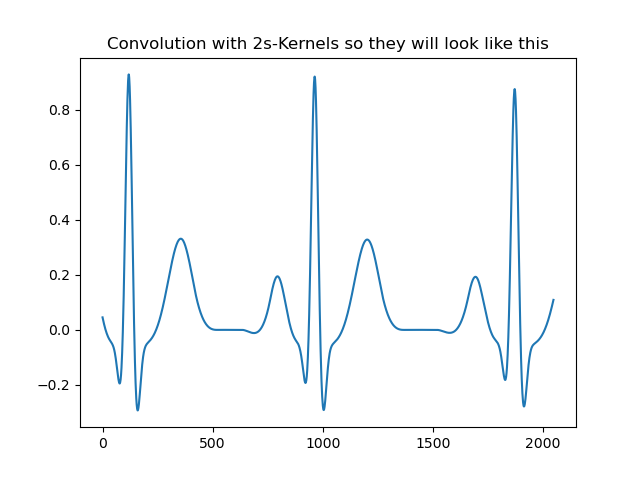
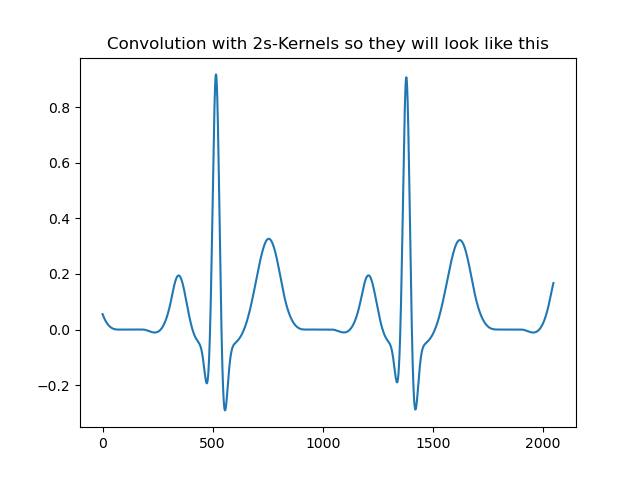
Tachygram super. R-peak klappt nicht

diff --git a/train_proc.py b/train_proc.py
@@ -86,7 +86,7 @@ def train(total_epochs=250,
             mlflow.log_param("Architecture", "Conv-AE-LSTM-P")  # logs type of architecture
             mlflow.log_param("down_samplerate", ds_samplerate)  # samplerate after downsampling
         elif Arch == "maxKomp-Conv-AE-LSTM-P":
-            model, ds_samplerate = tl.setup_maxKomp_Conv_AE_LSTM_P(np.shape(X)[1:], NNsize, np.shape(y)[-1], int(samplerate))  # Conv Encoder. LSTM Decoder
+            model, ds_samplerate = tl.setup_maxKomp_Conv_AE_LSTM_P(np.shape(X)[1:], np.shape(y)[-1], int(samplerate))  # Conv Encoder. LSTM Decoder
             mlflow.log_param("Architecture", "maxKomp-Conv-AE-LSTM-P")  # logs type of architecture
             mlflow.log_param("down_samplerate", ds_samplerate)  # samplerate after downsampling
 
@@ -99,19 +99,21 @@ def train(total_epochs=250,
         # Compile model
         print("Compiling model...")
         model.compile(loss= {
-            # "ECG_output": tl.ECG_loss,
-            # "BBI_output": tl.BBI_loss
-            "RP_output": tl.RP_loss
-            },# Loss-Funktion
+                        "Tachy_output": tl.ECG_loss,
+                        # "ECG_output": tl.ECG_loss,
+                        # "BBI_output": tl.BBI_loss
+                        # "RP_output": tl.RP_loss
+                        },# Loss-Funktion
                     optimizer='Adam',
                     metrics={
-            # "ECG_output": 'MAE',
-            # "BBI_output": 'MAE'
-            "RP_output": 'binary_accuracy'
-            })
+                        "Tachy_output": 'MAE',
+                        # "ECG_output": 'MAE',
+                        # "BBI_output": 'MAE'
+                        # "RP_output": 'binary_accuracy'
+                        })
         
         # Callback
-        escb = EarlyStopping(monitor='binary_accuracy', patience=min(int(total_epochs/2),50), min_delta=0.001, mode="min") # 'ECG_output_MAE'
+        escb = EarlyStopping(monitor='MAE', patience=min(int(total_epochs/2),50), min_delta=0.001, mode="min") # 'Tachy_output_MAE' 'ECG_output_MAE' 'binary_accuracy'
         
         # Train model on training set
         print("Training model...")
@@ -156,7 +158,8 @@ def train(total_epochs=250,
         plt.title("Full plot Truth and Pred of column 0")
         plt.plot(list(range(len(y_test[0][0,:]))), y_test[0][example,:])
         plt.plot(list(range(len(y_pred[0][0,:]))), y_pred[0][example,:])
-        plt.plot(list(range(len(X_test[0,:]))), X_test[example,:])
+        if "ECG" in out_types[0]:
+                plt.plot(list(range(len(X_test[0,:]))), X_test[example,:])
         plt.legend(["y_test", "y_pred", "X_test"])
         plt.savefig("Full-Plot col 0")
         # while loop for saving image
@@ -186,6 +189,15 @@ def train(total_epochs=250,
             plt.plot(list(range(len(y_pred[k][0,-2*samplerate:]))), y_pred[k][example,-2*samplerate:])
             if "ECG" in out_types[k]:
                 plt.plot(list(range(len(X_test[0,-2*samplerate:]))), X_test[example,-2*samplerate:])
+            if "RP" in out_types[k]:
+                print("Shape pred:", np.shape(y_test[k][example,:]))
+                bool_pred = np.round(y_pred[k][example,:]) != 0.
+                acc = y_test[k][example,:] == bool_pred[:,0]
+                print("Shape acc:", np.shape(acc))
+                acc = np.round(np.sum(np.array(acc, np.int8)) / len(y_pred[k][example,:]) * 100,2)
+                plt.title("Accuracy of r-peak detection:" + str(acc))
+                print("Anzahl an beats: ", np.sum(np.array(y_test[k][example,:], np.int8)))
+                # print(y_test)
             plt.legend(["y_Test", "Prediction", "X_Test"])
             name = concat("./ZoomPlot-Col-",str(k))
             plt.savefig(name)
@@ -216,13 +228,13 @@ def train(total_epochs=250,
             example = np.random.randint(len(y_test[0][:,0]))
             for k in range(len(y_pred)):
                 plt.figure(k)
-                plt.title(concat("Zoomed Truth and Pred of column ", str(k)))
-                plt.plot(list(range(len(y_test[k][0,-2*samplerate:]))), y_test[k][example,-2*samplerate:])
-                plt.plot(list(range(len(y_pred[k][0,-2*samplerate:]))), y_pred[k][example,-2*samplerate:])
+                plt.title(concat("Truth and Pred of column ", str(k)))
+                plt.plot(list(range(len(y_test[k][0,:]))), y_test[k][example,:])
+                plt.plot(list(range(len(y_pred[k][0,:]))), y_pred[k][example,:])
                 if "ECG" in out_types[k]:
                     plt.plot(list(range(len(X_test[0,-2*samplerate:]))), X_test[example,-2*samplerate:])
                 plt.legend(["y_Test", "Prediction", "X_Test"])
-                name = "./ZoomPlot-Col-" + str(k) + "-example-" + str(l)
+                name = "./plots/Plot-Col-" + str(k) + "-example-" + str(l)
                 plt.savefig(name)
                 plt.close()
         

diff --git a/laboratory.py b/laboratory.py
@@ -26,10 +26,10 @@ print("Experiment_id: {}".format(experiment.experiment_id))
 # length_item: number of data points in items
 
 train(NNsize=int(2**4), 
-      total_epochs=100, 
-      length_item= 2**15, # raise this by using generator for data input in NN. Hopefully
+      total_epochs=50, 
+      length_item= 2**18, # raise this by using generator for data input in NN. Hopefully
       # INPUT_name = {"symbols": ["lag 0"]},
-      OUTPUT_name = {'RP': ["lag 0"]},# "BBI": ["lag 0"]},# "ECG": ["lag 0"], {"BBI":["lag 0"], "symbols": ["lag 0"], "words": ["lag 0"]}, #  "BBI": ["lag 0"]
+      OUTPUT_name = {'Tachy': ["lag 0"]},# 'RP': ["lag 0"]},# ,  "BBI": ["lag 0"]},# "ECG": ["lag 0"], {"BBI":["lag 0"], "symbols": ["lag 0"], "words": ["lag 0"]}, #  "BBI": ["lag 0"]
       Arch = "Conv-AE-LSTM-P") # "LSTM-AE")
 
 # for N in range(16,18,1):

diff --git a/generate_ECG_dataset.m b/generate_ECG_dataset.m
@@ -61,6 +61,10 @@ for ii = 1:amount
         r_peaks_ms = r_peaks_index/sfecg_syn*1000; % transform indices into ms
         BBI = r_peaks_ms(2:end) - r_peaks_ms(1:end-1); % calculate BBI in ms
         
+        % Upsample ipeaks to same samplerate as Fabians Methode
+        % by inserting zeros
+        ipeaks = upsample(ipeaks,sfecg/sfecg_syn);
+
         % Fabians method
         % Bachelor thesis Fabian Chapter 2.3
         % Fit heartbeat snippets onto BBI vector
@@ -154,7 +158,7 @@ for ii = 1:amount
     fclose(fileID);
 
     fileID = fopen(name_ipeaks,'a');
-    fwrite(fileID, t(1:ecg_duration)', 'int');
+    fwrite(fileID, ipeaks(1:ecg_duration)', 'int');
     fclose(fileID);
 
     fileID = fopen(name_BBI,'a'); % opens with access type append
